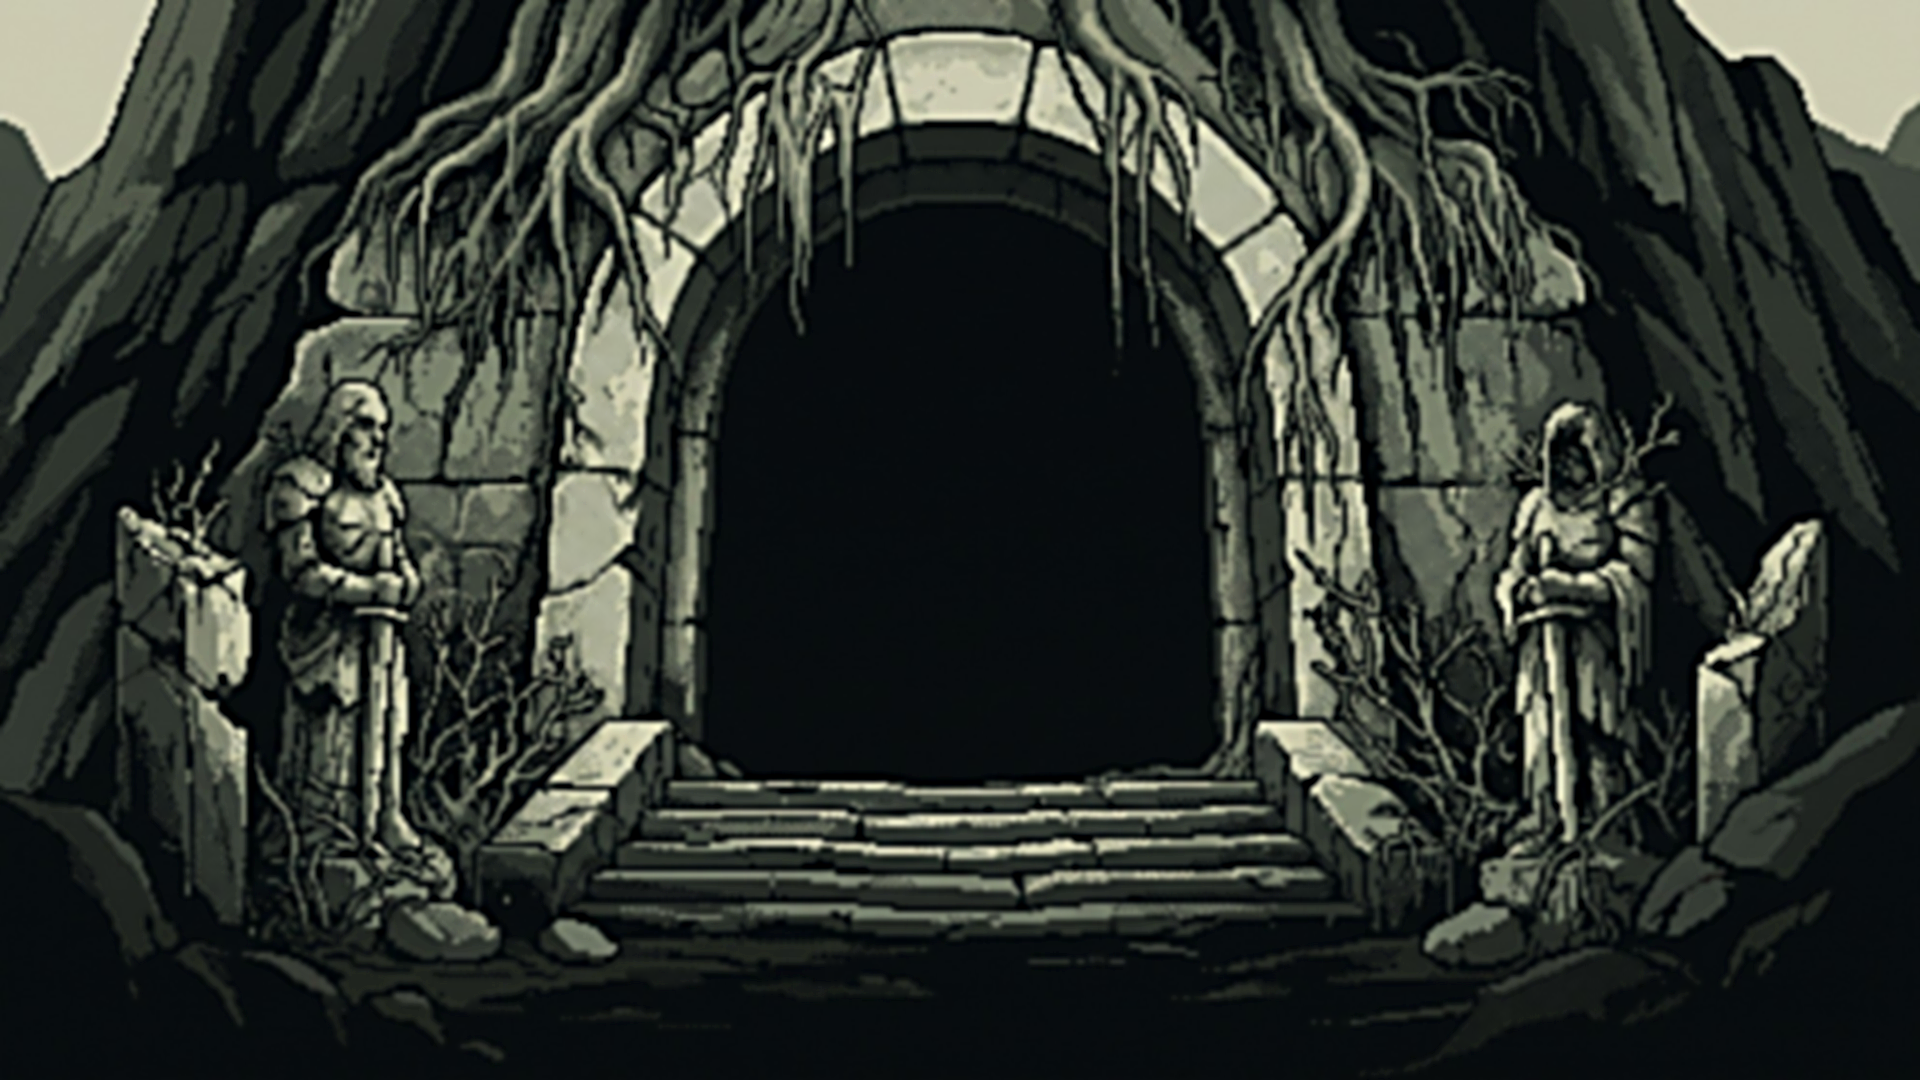
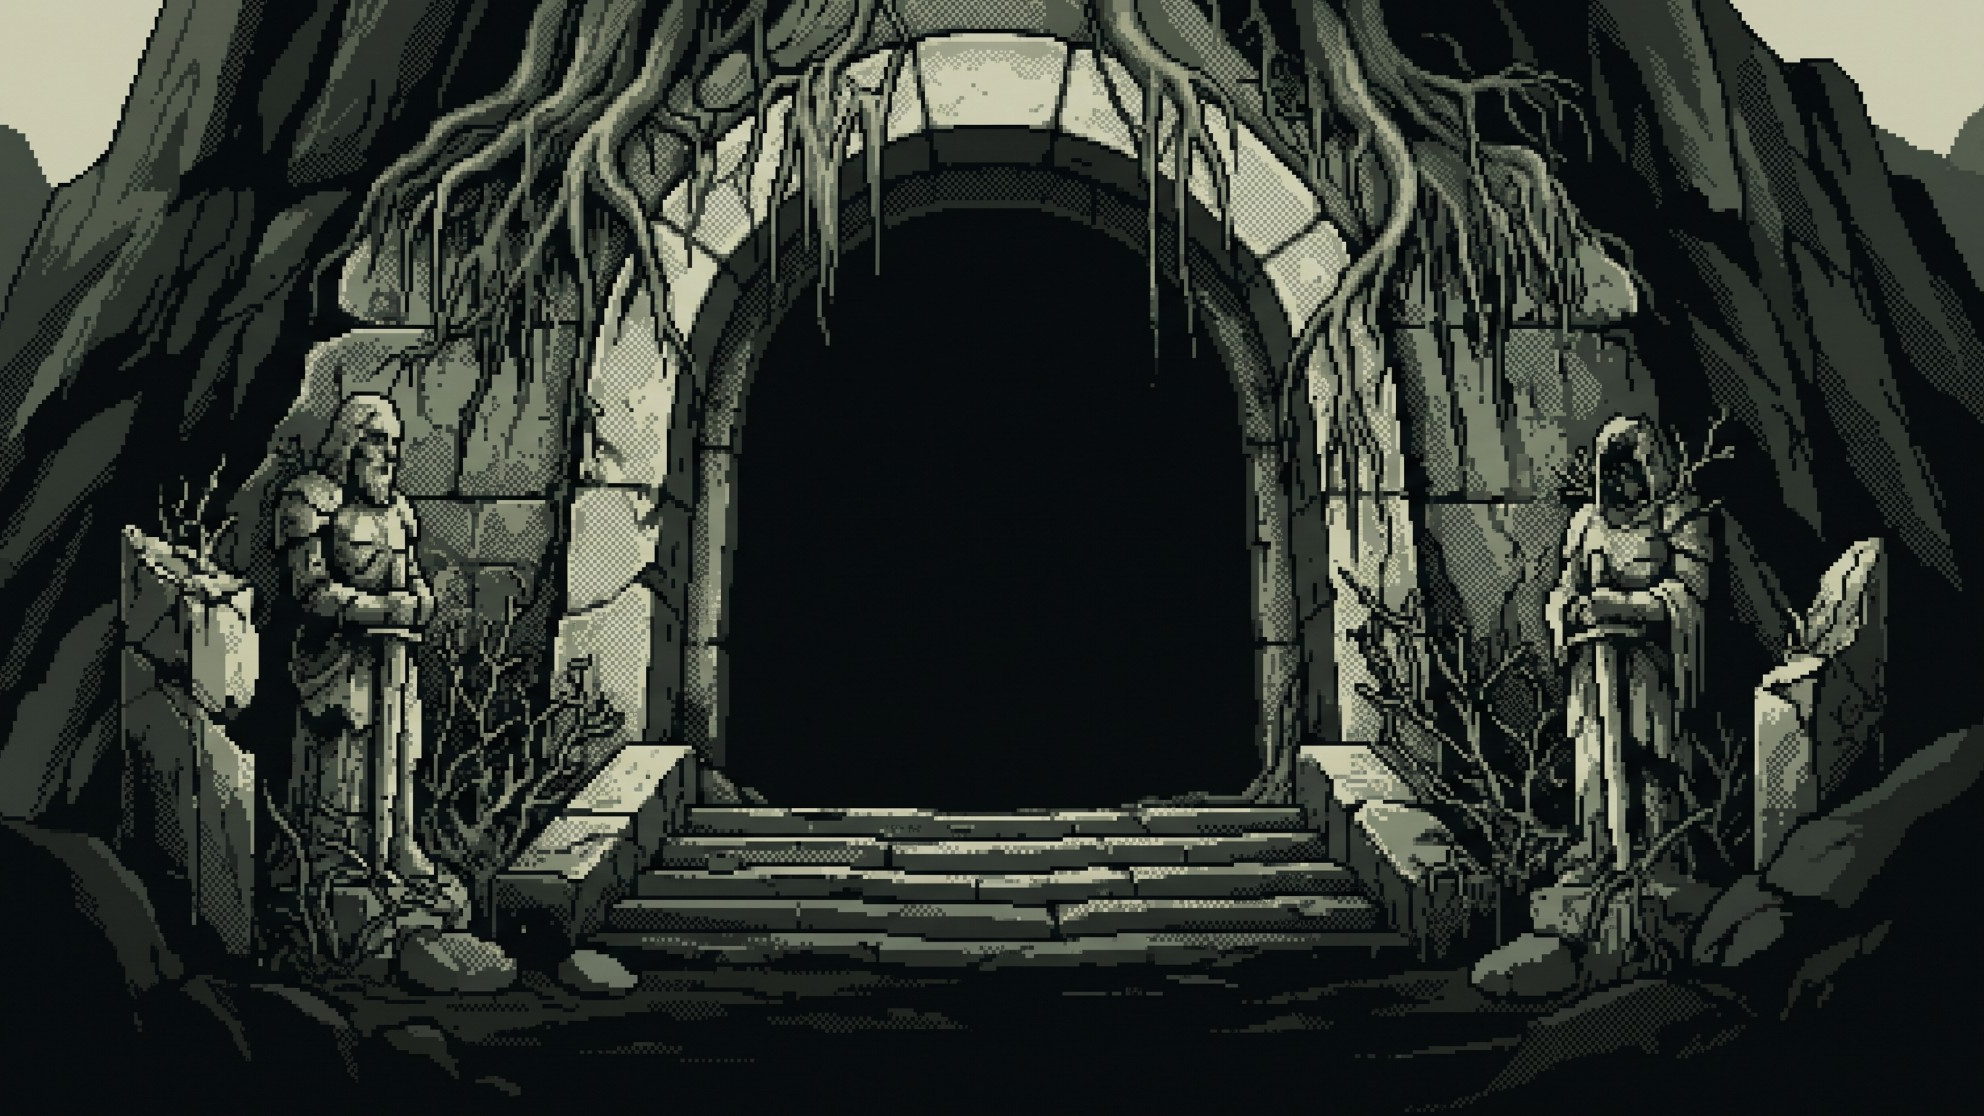
Intro sin suavizado: originales a la resolución real de la pantalla

diff --git a/js/juego.js b/js/juego.js
@@ -17,14 +17,24 @@ try { Object.assign(X, JSON.parse(STORE.get(CLAVE) || '{}')); } catch (e) { /* s
 for (const k of ['caidos', 'plantel', 'candidatos']) X[k] = X[k].filter(c => D.modelos[c.modelo] && D.clases[c.clase]);   // personajes de modelos que ya no existen
 const guardarX = () => STORE.set(CLAVE, JSON.stringify({ ceniza: X.ceniza, caidos: X.caidos, corridas: X.corridas, plantel: X.plantel, candidatos: X.candidatos, leyendas: X.leyendas, memoria: X.memoria }));
 const azarX = () => Math.random();
-// Capa fina sobre el canvas de 480x270: textos y retratos no se pixelan al agrandar la ventana.
-// Se dibuja con las mismas coordenadas que el canvas; sus 4 veces de resolución las pone la escala.
+// Capa fina sobre el canvas de 480x270: textos, retratos e ilustraciones no se pixelan al agrandar la ventana.
+// Se dibuja con las mismas coordenadas que el canvas, y su tamaño real es el de la ventana en pantalla:
+// cada píxel de la capa es un píxel del monitor, así nada se reescala después.
 const LADO_RETRATO = 128;
-const NITIDO = { g: null, sucio: false };
+const NITIDO = { g: null, sucio: false, ancho: 0 };
 function capaNitida() {
-  if (!NITIDO.g) { NITIDO.g = $('nitido').getContext('2d'); NITIDO.g.scale(4, 4); }
+  ajustarCapa();
   NITIDO.sucio = true;
   return NITIDO.g;
+}
+function ajustarCapa() {
+  const lienzo = $('nitido'), ancho = Math.max(480, Math.round($('stage').getBoundingClientRect().width * (window.devicePixelRatio || 1)));
+  if (!NITIDO.g) NITIDO.g = lienzo.getContext('2d');
+  if (ancho === NITIDO.ancho) return;
+  NITIDO.ancho = ancho;
+  lienzo.width = ancho; lienzo.height = Math.round(ancho * 270 / 480);
+  NITIDO.g.setTransform(ancho / 480, 0, 0, ancho / 480, 0, 0);
+  NITIDO.g.imageSmoothingQuality = 'high';
 }
 function limpiarCapa() {
   if (NITIDO.sucio) NITIDO.g.clearRect(0, 0, 480, 270);
@@ -256,12 +266,12 @@ const LLAMA = { x: 186, w: 112, arriba: 1, abajo: 112 };
 const LLAMA_TEMPLO = { x: 298, w: 28, arriba: 78, abajo: 97 };
 const LLAMA_ANTORCHA = { x: 293, w: 18, arriba: 109, abajo: 128 };
 function ondular(c, img, t, fuerza, zona = LLAMA) {
-  const { x, w, arriba, abajo } = zona, alto = abajo - arriba, paso = 0.25, f = fuerza * alto / 110;
+  const { x, w, arriba, abajo } = zona, alto = abajo - arriba, paso = 0.25, f = fuerza * alto / 110, e = img.naturalWidth / 480;
   for (let y = arriba; y < abajo; y += paso) {
     const k = Math.pow((abajo - y) / alto, 1.3), r = (y - arriba) * 110 / alto;
     const d = (Math.sin(r * 0.11 - t * 6.5) * 2.6 + Math.sin(r * 0.27 - t * 10.5) * 1.1) * k * f;
     const sube = (Math.sin(t * 7.3) * 0.5 + 0.5) * 5 * k * f;
-    c.drawImage(img, x * 4, Math.round((y + sube) * 4), w * 4, 1, x + d, y, w, paso + 0.02);
+    c.drawImage(img, x * e, (y + sube) * e, w * e, paso * e, x + d, y, w, paso + 0.02);
   }
 }
 

diff --git a/tools/preparar_intro.py b/tools/preparar_intro.py
@@ -1,0 +1,8 @@
+# Prepara una ilustración de la introducción: la recorta a 16:9 sin reescalarla ni filtrarla.
+# Uso: python tools/preparar_intro.py origen destino.png
+import sys
+from PIL import Image
+im = Image.open(sys.argv[1]).convert('RGB')
+w = min(im.width, round(im.height * 16 / 9)); h = round(w * 9 / 16)
+x, y = (im.width - w) // 2, (im.height - h) // 2
+im.crop((x, y, x + w, y + h)).save(sys.argv[2], optimize=True)
